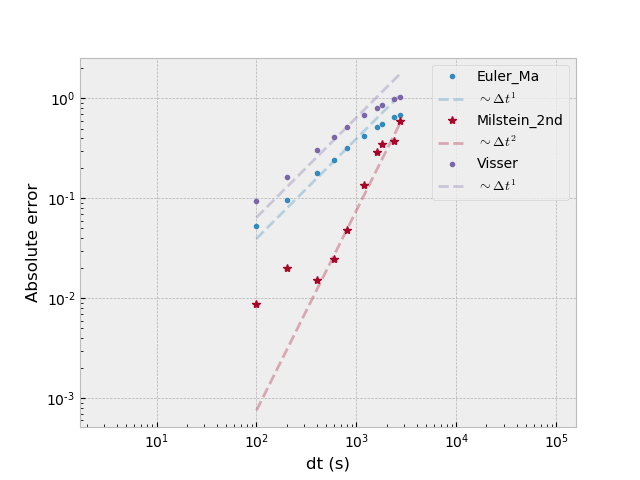
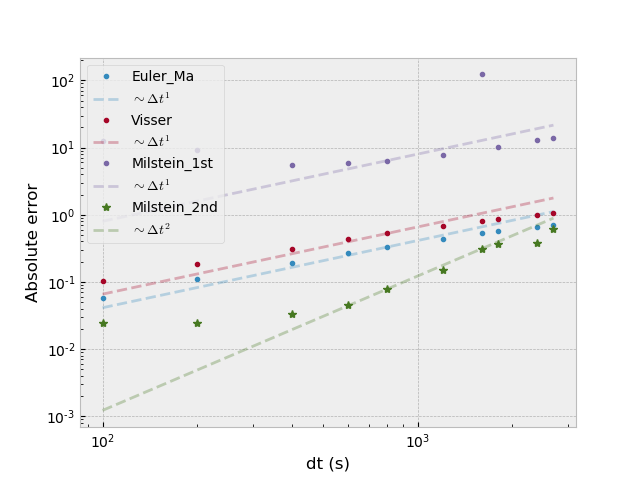
-a

diff --git a/Code/WeakConvergence/WeakConv.py b/Code/WeakConvergence/WeakConv.py
@@ -22,7 +22,7 @@ H=25.0
 K0=5e-3
 K1=1e-3
 turncation=H/2
-scale=0.05
+scale=1
 
 sym_Diffu = K0+(K1-K0)*(1-1/(1+sympy.exp(-(turncation-z)/scale)))
 sym_dKdz = sympy.diff(sym_Diffu, z, 1)
@@ -37,10 +37,6 @@ d3Kdz = sympy.utilities.lambdify(z,sym_d3Kdz3,np)
 del z #delete the symbol
 
 print("Sympy finished")
-
-z=np.linspace(0,25,1000)
-profile=Diffu(z)
-plt.plot(z,profile)
 
 
 #%%
@@ -101,9 +97,20 @@ def step_e(z,H,dt,N_sample,w=0):
 def step_m(z,H,dt,N_sample,dW=None,w=0):
     if dW is None:
         dW=np.random.normal(0,np.sqrt(dt),N_sample)
+    
+    
+    k=Diffu(z)
     dkdz=dKdz(z)
-    b=np.sqrt(2*Diffu(z))
-    temp= z + w*dt + (1/2)*dkdz*(dW*dW+dt) + b*dW
+    sqrt2k=np.sqrt(2*k)
+    
+    a= w + dkdz
+    b= sqrt2k 
+    db=dkdz/b
+    
+    
+    #temp= z + w*dt + (1/2)*dkdz*(dW*dW+dt) + b*dW
+    temp= z+ a*dt+b*dt+1/2*(b*db)*(dW**2-dt)
+    
     temp=np.where(temp<0, -temp ,temp)
     temp=np.where(temp>H, 2*H-temp,temp)
     return temp
@@ -145,14 +152,14 @@ def Lagrangian(H=None, dtLa=None, T=None, Np=None, mu=None, sigma=None):
     print("Number of particles: ", Np)
     print("dt of Lagrangian: ", dtLa)
     for i in range(Nt):
+        print("\r","Working: ", i, " of ", Nt, end="\r", flush=True)       
         LaM2=step_m2(LaM2,H,dtLa,Np)
         LaEM=step_e(LaEM,H,dtLa,Np)
         LaVi=step_v(LaVi,H,dtLa,Np)
         LaM1=step_m(LaM1,H,dtLa,Np)
+
         
-#        if (i % int(Nt/100) ==0): #Just for printing
-#            print("\r", float(i*100/Nt+1),"%", end="\r",flush=True)
-#    print("\n")
+    
     """
     1. Calculate the "$order" momentum of Eulerian.
     2. Calculate the "$order" momentum of Lagrangian.
@@ -190,8 +197,7 @@ def Eulerain(dz=None, H=None, dtEu=None, T=None, mu=None, sigma=None):
             print("\r", float(i*100/Nt+1),"%", end="\r",flush=True)
     print("\n")
     
-    plt.plot(zEu,Conc)
-    plt.show()
+    plt.plot(zEu,Conc,".")
     order=1
     momConc=np.sum(Conc*zEu**order)*dz
     np.save("Concentration", Conc)
@@ -200,14 +206,14 @@ def Eulerain(dz=None, H=None, dtEu=None, T=None, mu=None, sigma=None):
 """    
 Run
 """
-#z=np.linspace(0,25, 200)
-#D=Diffu(z)
-#plt.plot(z,D)
-
+z=np.linspace(0,25, 2000)
+D=Diffu(z)
+plt.plot(z,D,"*")
+plt.show()
 
 #input parameters.
 dz=0.1
-dtEu=0.5
+dtEu=0.1
 T=12*3600 #one hours
 Np=2000000             #Number of particles
 mu=10.0

diff --git a/Code/WeakConvergence/LoadAndPlot.py b/Code/WeakConvergence/LoadAndPlot.py
@@ -24,22 +24,22 @@ l, = plt.plot(dtLa_array, weak_conEM,".",label = "Euler_Ma")
 plt.plot(dtLa_array, (weak_conEM[i]/dtLa_array[i]**1) * dtLa_array**1, "--",
          c = l.get_color(), label = "$\sim \Delta t^1$", alpha=0.3)
 
-l, = plt.plot(dtLa_array, weak_conM2,"*",label = "Milstein_2nd")
-plt.plot(dtLa_array, (weak_conM2[i]/dtLa_array[i]**2) * dtLa_array**2, "--", 
-         c = l.get_color(), label = "$\sim \Delta t^2$", alpha=0.3)
-
 l, = plt.plot(dtLa_array, weak_conVi,".",label = "Visser")
 plt.plot(dtLa_array, (weak_conVi[i]/dtLa_array[i]**1) * dtLa_array**1, "--",
          c = l.get_color(), label = "$\sim \Delta t^1$", alpha=0.3)
 
-#l, = plt.plot(dtLa_array, weak_conM1,".",label = "Milstein_1st")
-#plt.plot(dtLa_array, (weak_conM1[i]/dtLa_array[i]**1) * dtLa_array**1, "--",
-#         c = l.get_color(), label = "$\sim \Delta t^1$", alpha=0.3)
+l, = plt.plot(dtLa_array, weak_conM1,".",label = "Milstein_1st")
+plt.plot(dtLa_array, (weak_conM1[i]/dtLa_array[i]**1) * dtLa_array**1, "--",
+         c = l.get_color(), label = "$\sim \Delta t^1$", alpha=0.3)
+
+l, = plt.plot(dtLa_array, weak_conM2,"*",label = "Milstein_2nd")
+plt.plot(dtLa_array, (weak_conM2[i]/dtLa_array[i]**2) * dtLa_array**2, "--", 
+         c = l.get_color(), label = "$\sim \Delta t^2$", alpha=0.3)
 
 plt.xlabel('dt (s)')
 plt.ylabel('Absolute error')
 plt.xscale('log')
 plt.yscale('log')
 plt.legend()
-plt.axis('equal')
+#plt.axis('equal')
 plt.savefig("figure")

diff --git a/Code/StrongConvergence/StrongConv.py b/Code/StrongConvergence/StrongConv.py
@@ -65,6 +65,7 @@ def get_tranjectory():
     Nt=100*jump[-1]+1
     
     TimeArray=np.linspace(0,TimeEnd,Nt)
+    print("TimeArray size: ", TimeArray.size)
     dt=TimeArray[1]-TimeArray[0]
     dW=np.random.normal(0,dt,Nt)
     Wiener=np.cumsum(dW)
@@ -136,6 +137,7 @@ def get_error():
     Nt=100*jump[-1]+1
     
     TimeArray=np.linspace(0,TimeEnd,Nt)
+    #print("TimeArray size: ", TimeArray.size)
     dt=TimeArray[1]-TimeArray[0]
     dW=np.random.normal(0,dt,Nt)
     Wiener=np.cumsum(dW)
@@ -235,7 +237,8 @@ for i in range(1,Np):
     temp_e,temp_m,_=get_error()
     Error_e=temp_e+Error_e
     Error_m=temp_m+Error_m
-    print((i+1)*100/Np, "%")
+    print("\r ", (i+1)*100/Np, "%", end="\r",flush=True)
+
     
 Error_e=Error_e/Np
 Error_m=Error_m/Np
